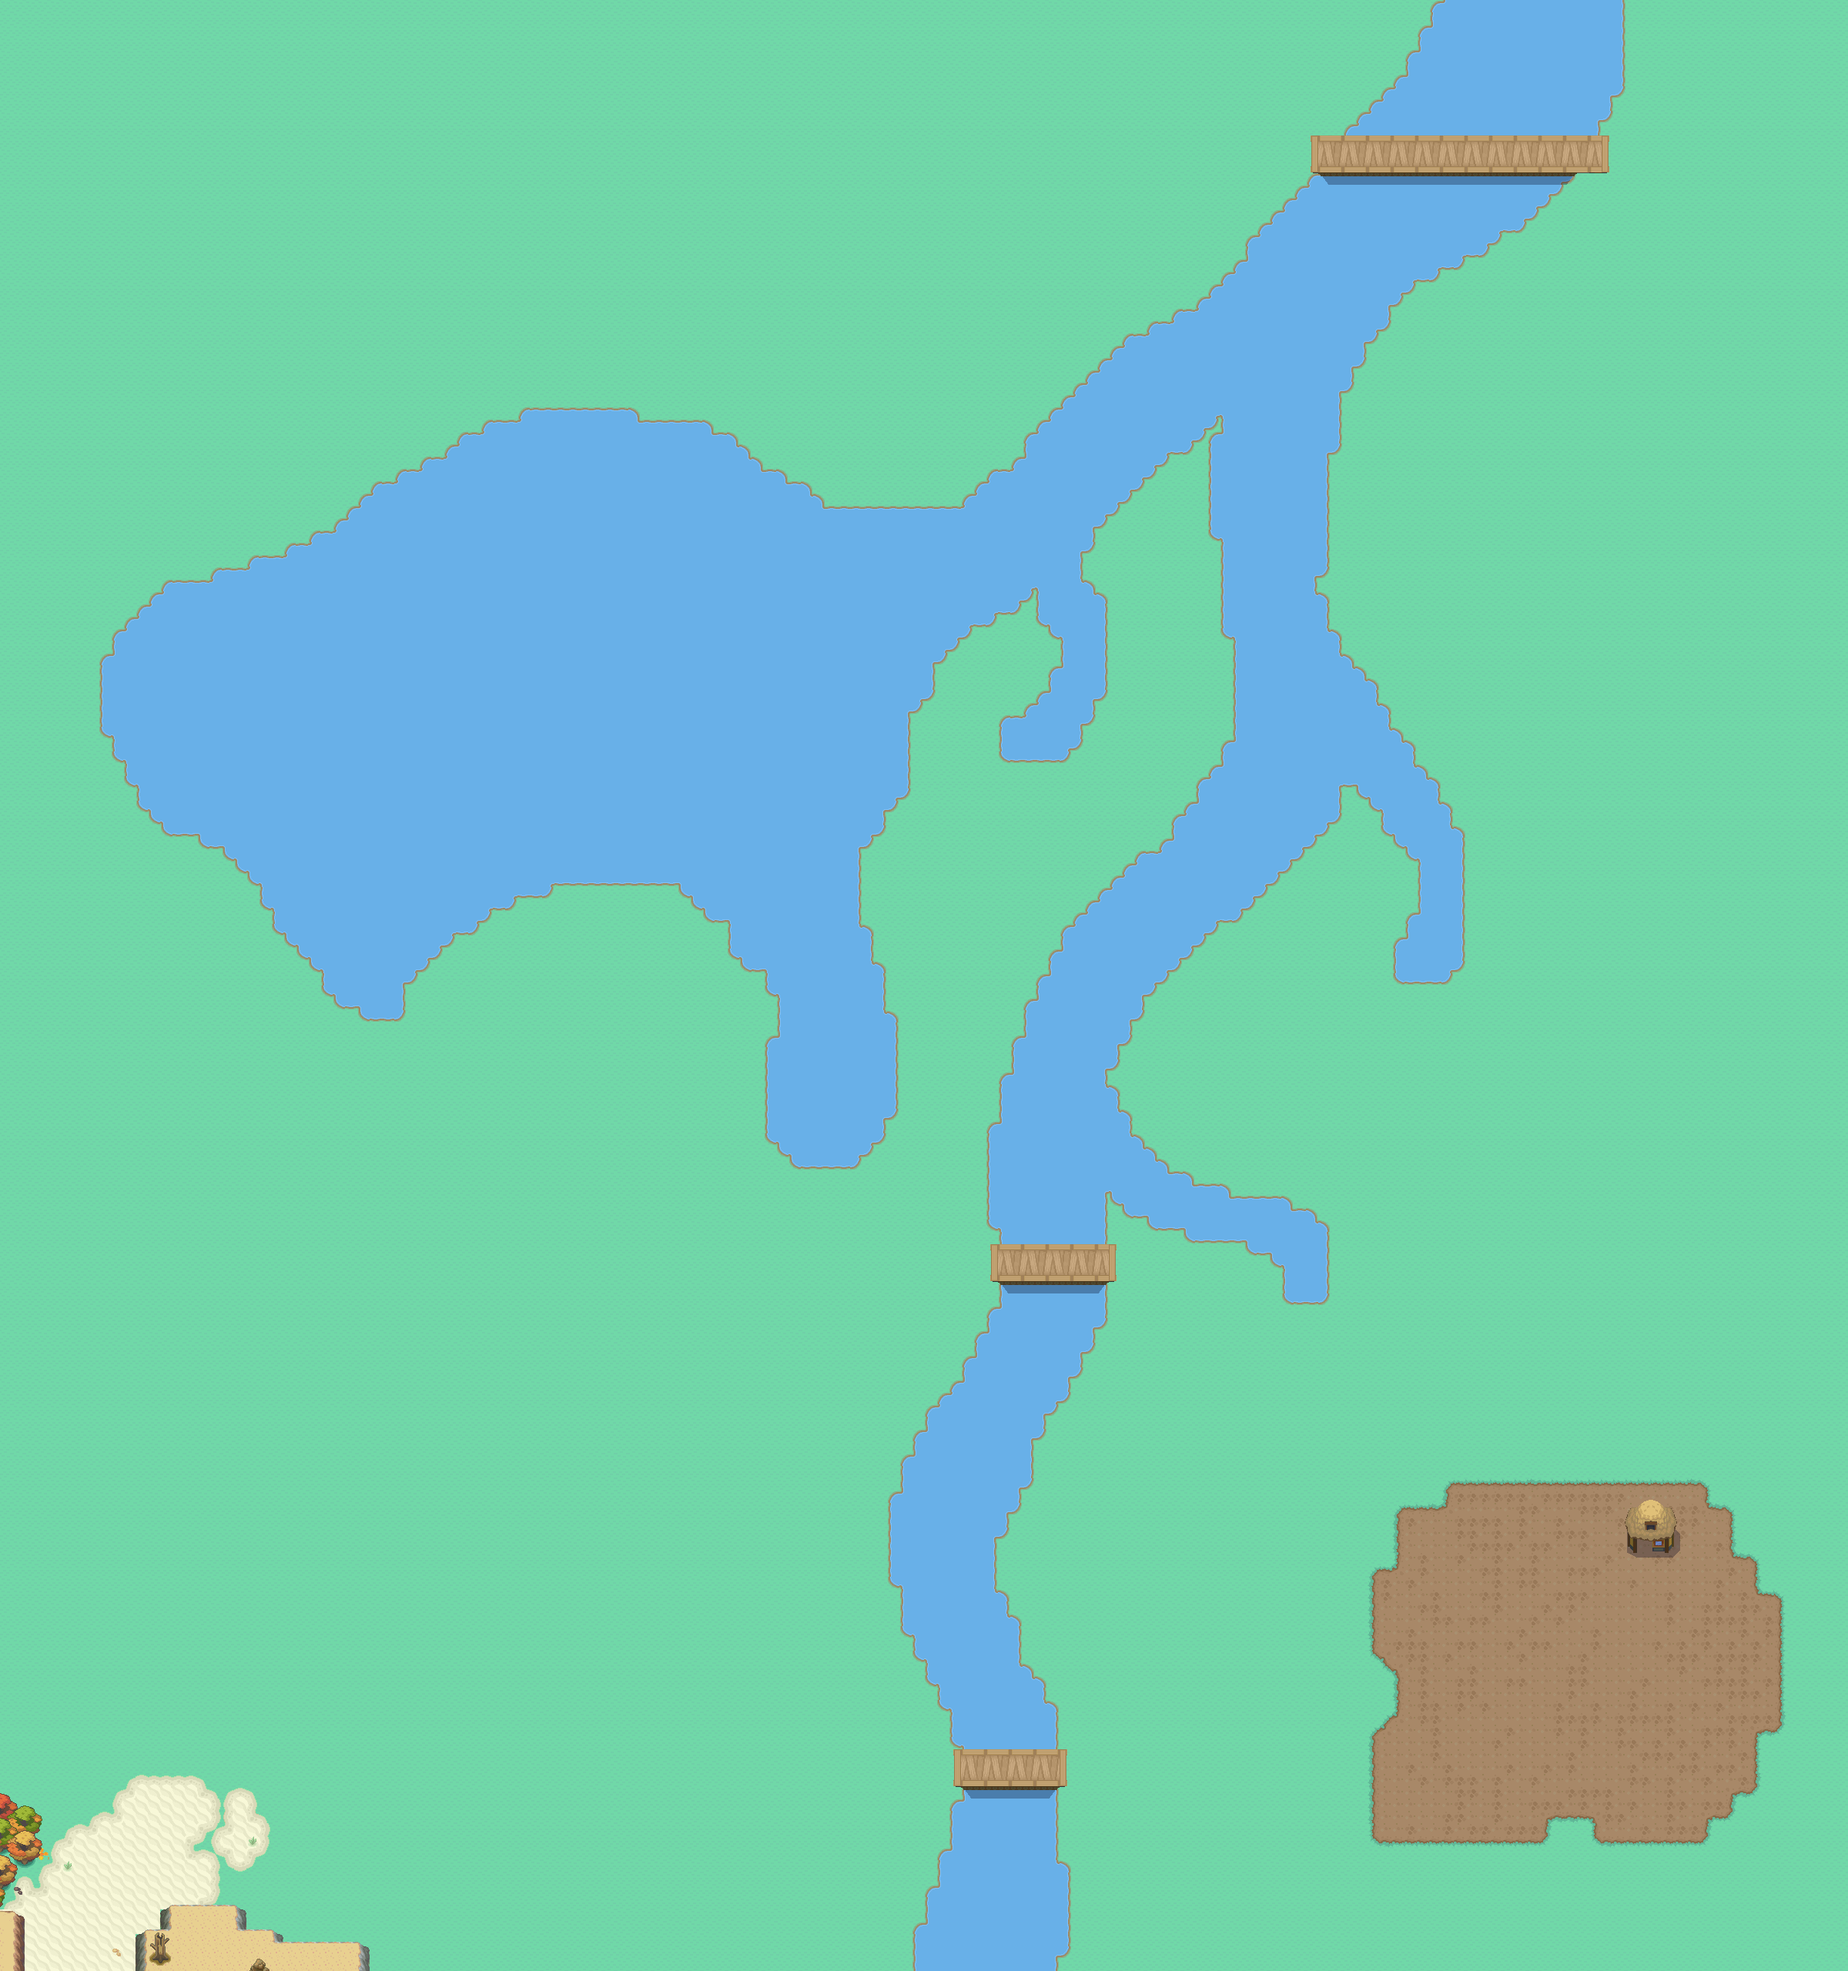
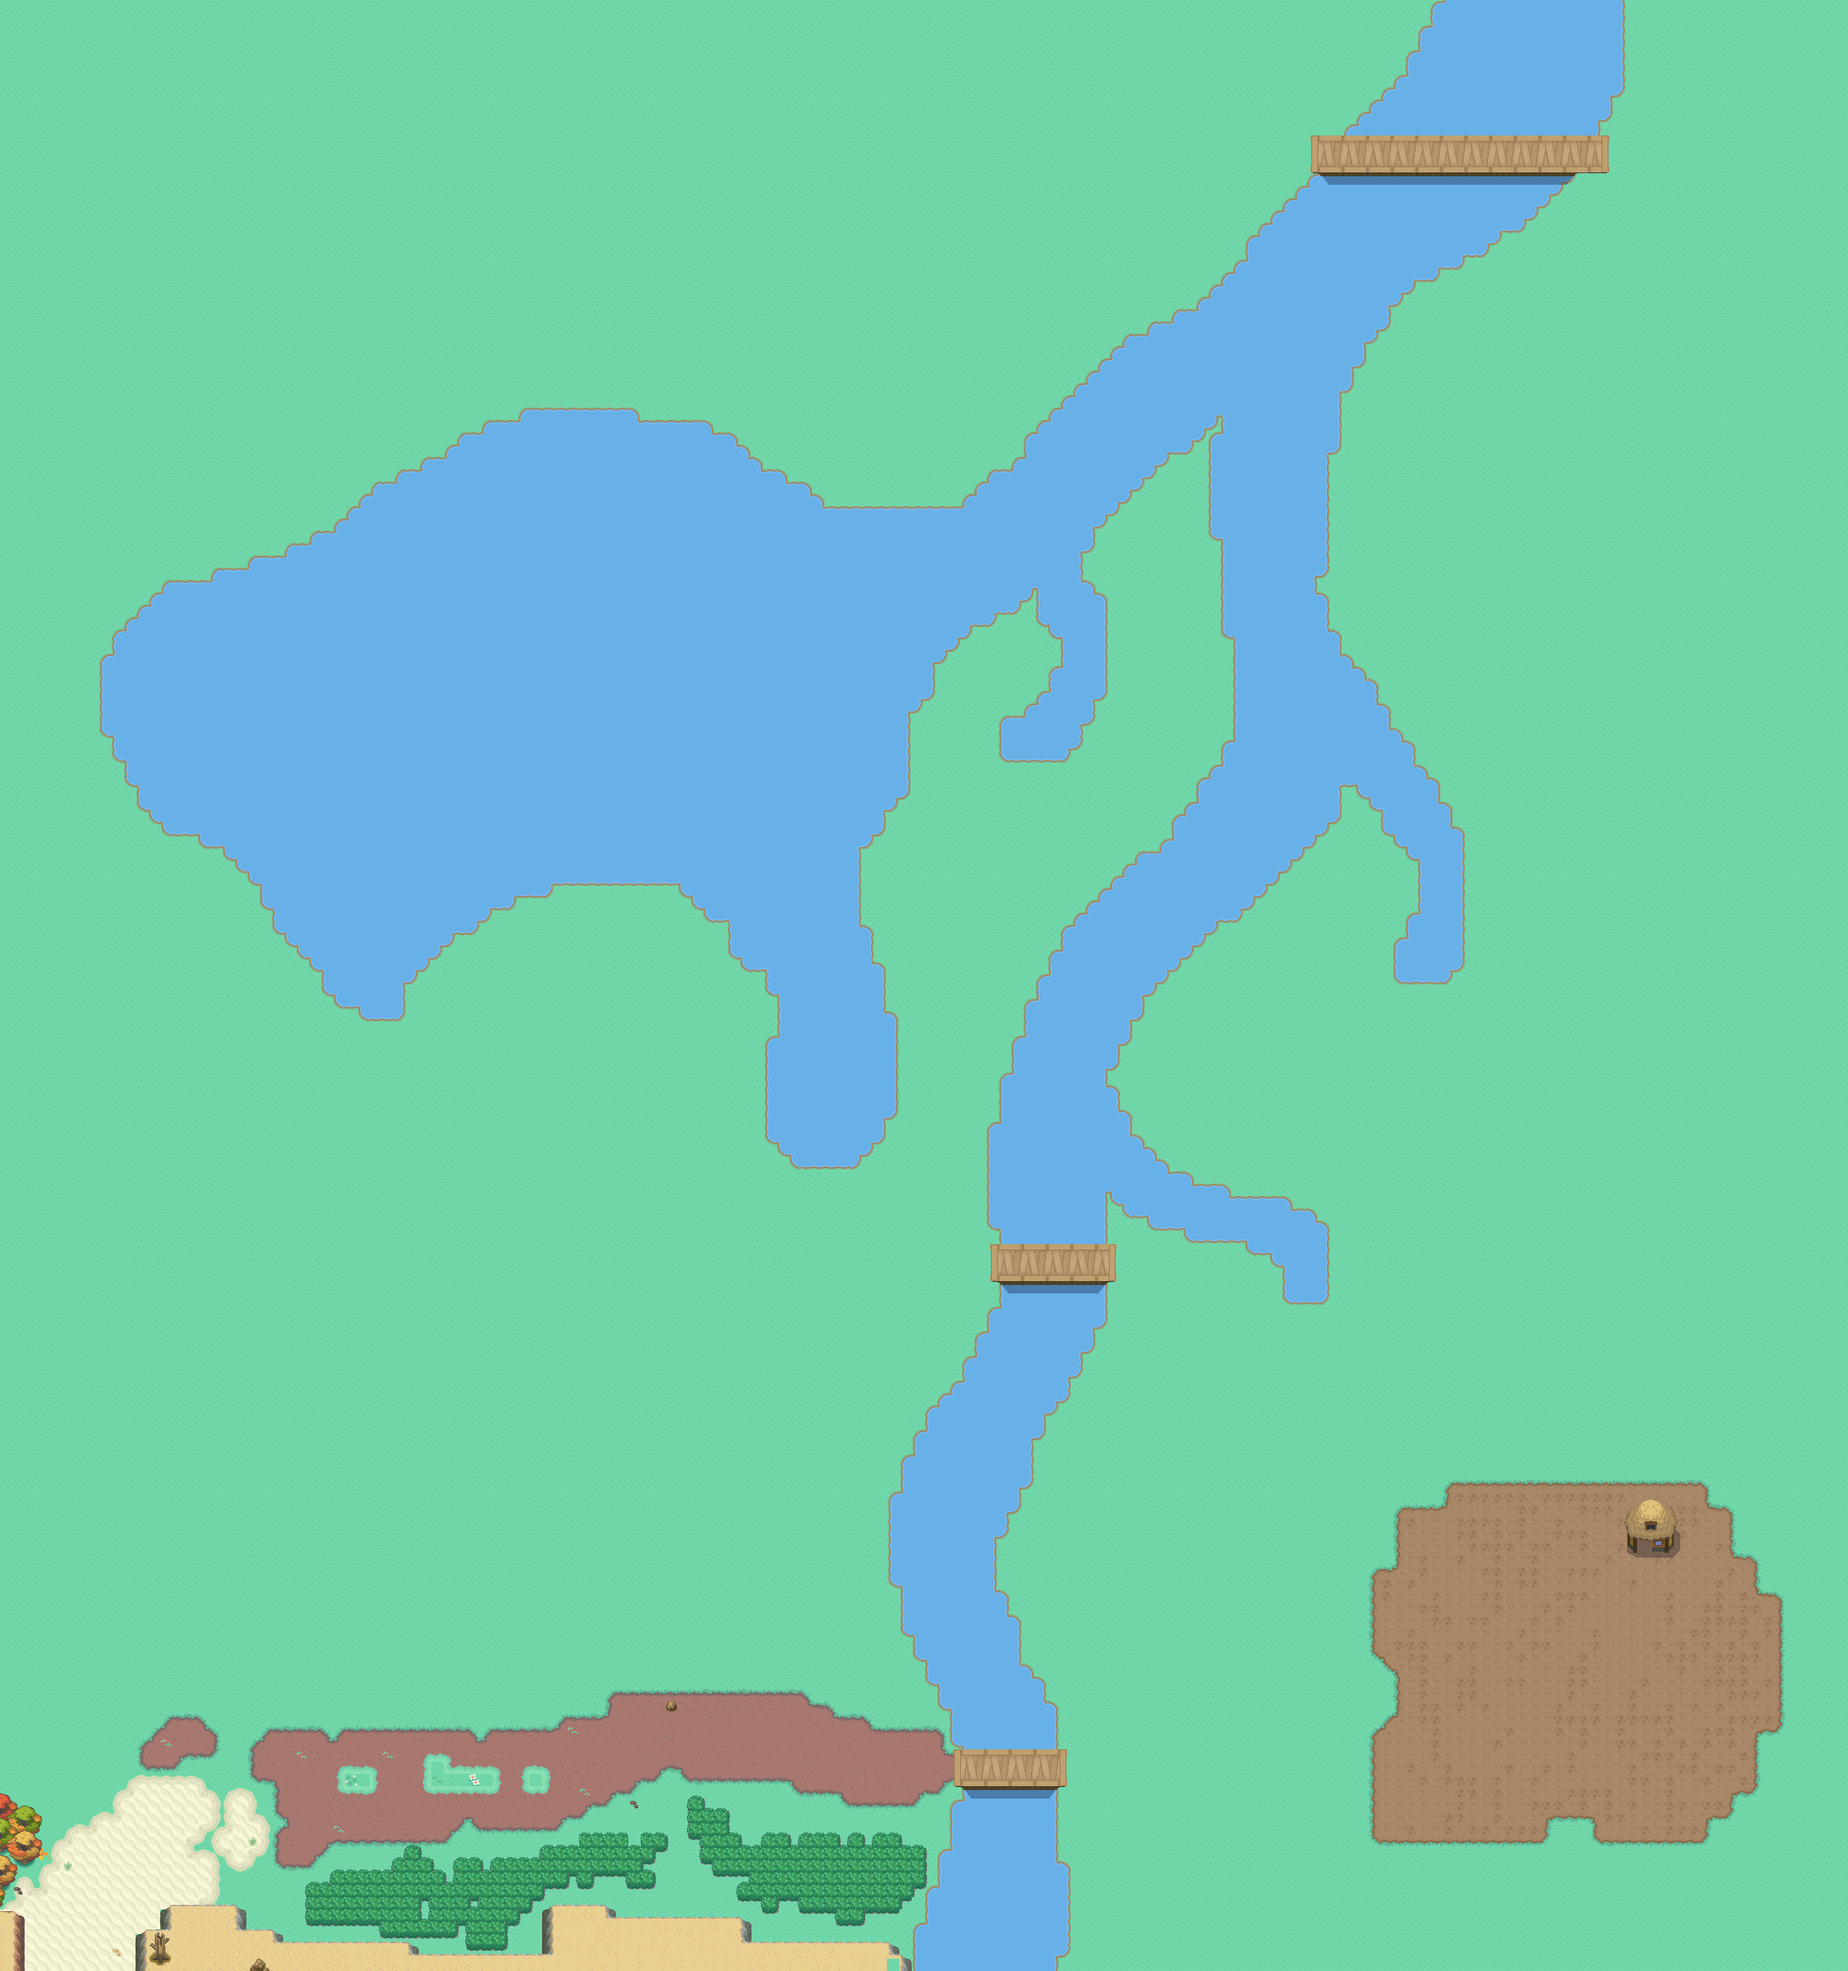
feat: wip forest

Changed region(s): [[0.0625, 0.8438, 0.5312, 1.0]]

diff --git a/src/js/mapping/maps/forest.ts b/src/js/mapping/maps/forest.ts
@@ -1,14 +1,15 @@
+import type { NPC } from "../../characters/npc";
 import { Script, Dialog, Message } from "../../scripting/scripts";
 import { Jonction } from "../collisions";
 import { OpenMap } from "../maps";
 import { Position } from "../positions";
 
 const monsters = Array.from({ length: 233 }, (v, k) => k + 1);
-const collisions = [];
-const waterCollision = [];
-const battle = [];
-const npcs = [];
-const scripts = [];
+const collisions: number[] = [];
+const waterCollision: number[] = [];
+const battle: number[] = [];
+const npcs: NPC[] = [];
+const scripts: Script[] = [];
 
 export const forest = OpenMap.fromScratch(1, 'src/assets/maps/forest.png', 150, 160,
     collisions, waterCollision, battle, monsters,

diff --git a/src/lib/Intro.svelte b/src/lib/Intro.svelte
@@ -213,6 +213,7 @@
 	<img src="src/assets/maps/First-beach-foreground.png" alt="map1-fg"/>
 	<img src="src/assets/maps/pokecenter2.png" alt="pokecenter"/>
 	<img src="src/assets/maps/pokecenter2-foreground.png" alt="pokecenter-fg"/>
+	<img src="src/assets/maps/Forest.png" alt="forest"/>
 {/if}
 
 <style lang="scss">
